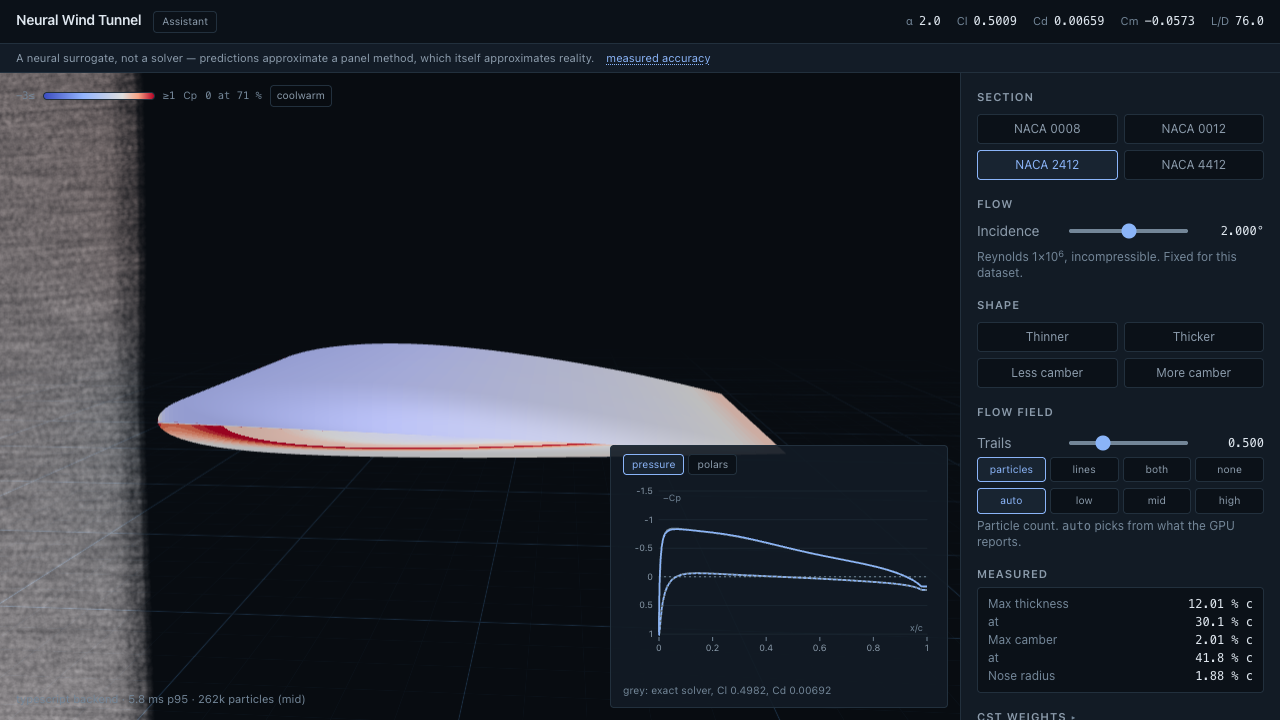
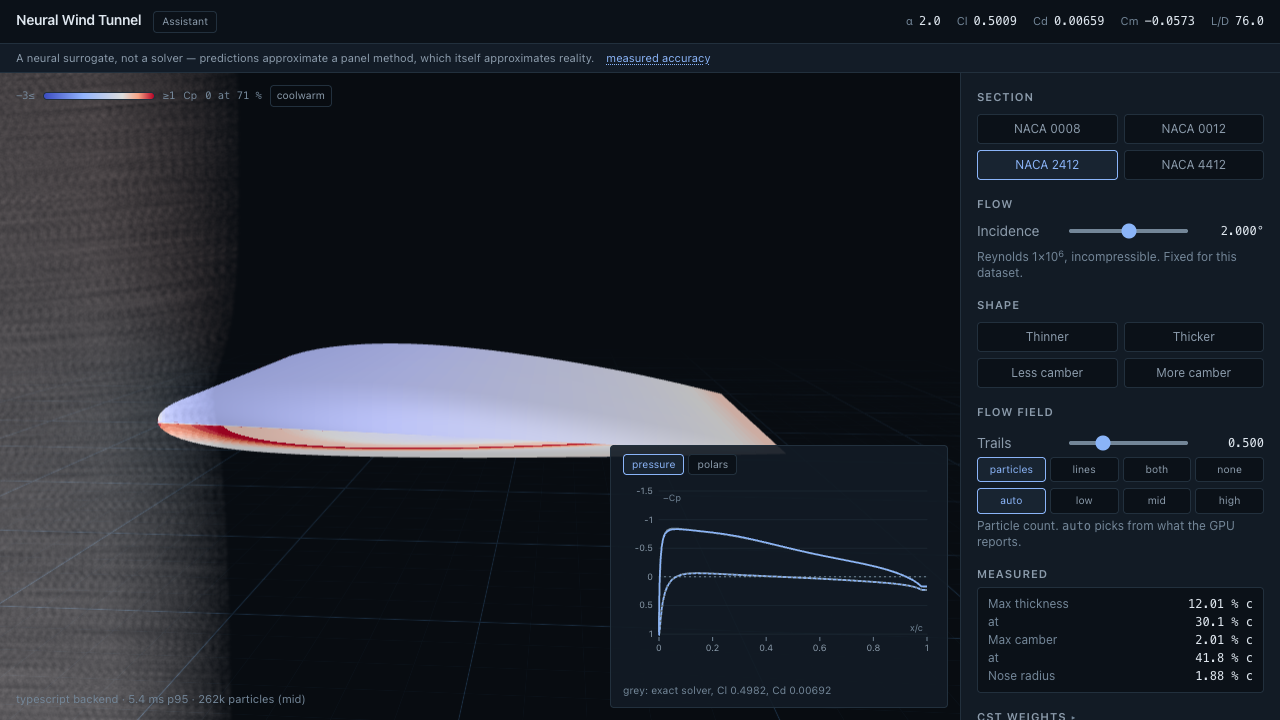
fix(gpgpu): deposit trails per second so the field is visible at any frame rate

Changed region(s): [[0.0, 0.0917, 0.1875, 1.0]]

diff --git a/tests/e2e/scene.spec.ts b/tests/e2e/scene.spec.ts
@@ -130,3 +130,70 @@ test.describe('polars', () => {
     await expect(page.getByTestId('polar-chart')).toHaveCount(0)
   })
 })
+
+/**
+ * The flow has to be visible, and visible everywhere the field is.
+ *
+ * This guards a bug that reached production: the trail buffer decayed per second but was deposited
+ * into per frame, so its steady-state brightness scaled with the frame rate. On a 120 Hz display
+ * the dense band of freshly seeded particles at the inlet saturated to white in under a second and
+ * the rest of the field — two orders of magnitude sparser — never crossed the first visible step.
+ * The tunnel looked empty with a bright stripe down its left edge.
+ *
+ * `trails.test.ts` holds the arithmetic, and that is the test that actually catches this bug: it
+ * is parametric in frame time and needs no GPU. This one cannot, and the reason is worth writing
+ * down — CI renders through SwiftShader at around eight frames a second, which is precisely where
+ * the broken arithmetic happens to look correct. Restoring the bug leaves this test green.
+ *
+ * It earns its place for a different failure: the flow must reach the part of the viewport
+ * downstream of the section, and must not be dwarfed by whatever is at the inlet. That covers a
+ * dead field, a broken mask, particles that never advect, and an inlet that saturates.
+ */
+test.describe('the flow field is visible across the domain', () => {
+  test('downstream of the section, not only at the inlet', async ({ page }) => {
+    await installCanvasProbe(page)
+    await page.goto('/#v=1&p=naca2412&a=2&view=particles&tier=mid')
+    await waitForRenderedSection(page)
+
+    // Long enough for a particle to cross the domain: three chords at 0.6 chords per second.
+    await page.waitForFunction(() => (window.__frames ?? 0) > 120, undefined, { timeout: 60_000 })
+    await page.waitForTimeout(6000)
+
+    const bands = await page.evaluate(() => {
+      const canvas = document.querySelector('canvas')
+      if (!canvas) return null
+      const gl = canvas.getContext('webgl2')
+      if (!gl) return null
+      const { width, height } = canvas
+      const pixels = new Uint8Array(width * height * 4)
+      gl.readPixels(0, 0, width, height, gl.RGBA, gl.UNSIGNED_BYTE, pixels)
+
+      // The upper third only: above the section, where nothing but flow is drawn.
+      const mean = (from: number, to: number) => {
+        let sum = 0
+        let count = 0
+        for (let y = Math.floor(height * 0.72); y < height; y += 2) {
+          for (let x = Math.floor(width * from); x < Math.floor(width * to); x += 2) {
+            const i = (y * width + x) * 4
+            sum += ((pixels[i] ?? 0) + (pixels[i + 1] ?? 0) + (pixels[i + 2] ?? 0)) / 3
+            count += 1
+          }
+        }
+        return count === 0 ? 0 : sum / count
+      }
+
+      return { inlet: mean(0, 0.12), middle: mean(0.4, 0.7), outlet: mean(0.78, 0.98) }
+    })
+
+    expect(bands, 'the canvas could not be sampled').not.toBeNull()
+    if (!bands) return
+    const { inlet, middle, outlet } = bands
+
+    // Each band carries flow. The floor is low because this runs on a software renderer.
+    expect(middle, `mid-domain brightness ${middle.toFixed(1)}`).toBeGreaterThan(6)
+    expect(outlet, `downstream brightness ${outlet.toFixed(1)}`).toBeGreaterThan(6)
+
+    // And the inlet does not drown the rest. In the broken build this ratio was unbounded.
+    expect(inlet / Math.max(middle, 1), 'inlet is far brighter than mid-domain').toBeLessThan(3)
+  })
+})

diff --git a/src/gpgpu/particles.ts b/src/gpgpu/particles.ts
@@ -55,7 +55,34 @@ const DEFAULT_MAX_AGE = 6
  * resolved, not how bright it is.
  */
 const REFERENCE_PARTICLE_COUNT = 262_144
-const REFERENCE_OPACITY = 0.012
+const REFERENCE_OPACITY = 0.0035
+
+/**
+ * The frame time the reference opacity was chosen at.
+ *
+ * The trail buffer decays per second and is deposited into per frame, so without this the two
+ * disagree: the steady-state brightness of a pixel is roughly `deposit / (decay * dt)`, which
+ * makes the picture four times brighter at 120 fps than at 30. The symptom was not subtle --
+ * on a 120 Hz display the dense band of freshly seeded particles at the inlet saturated to solid
+ * white within a second while the rest of the field, two orders of magnitude sparser, stayed below
+ * the first visible step and the tunnel looked empty. It survived review because the machine that
+ * checked it was a software renderer running at eight frames a second, where the same arithmetic
+ * happens to land in a reasonable place.
+ *
+ * Scaling what each particle deposits by the same `dt` the fade uses puts both on a per-second
+ * footing, and the picture then looks the same at 30 fps as at 120.
+ */
+export const REFERENCE_FRAME_TIME = 1 / 60
+
+/**
+ * How much of a frame's worth of light a particle deposits.
+ *
+ * Exported so the invariant can be tested without a GPU: `trailSteadyState` in
+ * `trails.test.ts` asserts that deposition and decay stay matched across frame rates.
+ */
+export function depositionScale(deltaSeconds: number): number {
+  return deltaSeconds / REFERENCE_FRAME_TIME
+}
 
 export class ParticleField {
   readonly points: Points
@@ -65,6 +92,7 @@ export class ParticleField {
   private readonly renderMaterial: ShaderMaterial
   private readonly geometry: BufferGeometry
   private readonly textureSize: number
+  private readonly baseOpacity: number
   private elapsed = 0
 
   constructor({
@@ -73,6 +101,8 @@ export class ParticleField {
     speed = DEFAULT_SPEED,
     maxAge = DEFAULT_MAX_AGE,
   }: ParticleOptions) {
+    this.baseOpacity =
+      (REFERENCE_OPACITY * REFERENCE_PARTICLE_COUNT) / (tier.texture * tier.texture)
     this.textureSize = tier.texture
     this.positions = new PingPong({
       width: tier.texture,
@@ -121,7 +151,7 @@ export class ParticleField {
         uSpeedMax: { value: 1.8 },
         // Low, because the trail buffer integrates every frame a particle is drawn: a value
         // that looks right for a single frame saturates to white within half a second.
-        uOpacity: { value: (REFERENCE_OPACITY * REFERENCE_PARTICLE_COUNT) / count },
+        uOpacity: { value: 0 },
         uColormap: { value: 0 },
         uDomainMin: { value: DOMAIN_MIN.clone() },
         uDomainMax: { value: DOMAIN_MAX.clone() },
@@ -189,6 +219,9 @@ export class ParticleField {
 
     this.renderMaterial.uniforms['uPositions']!.value = this.positions.read.texture
     this.renderMaterial.uniforms['uVelocity']!.value = velocity
+    // Deposit per second, not per frame. `clamped` is the same value the trail fade uses, so the
+    // two cannot drift apart.
+    this.renderMaterial.uniforms['uOpacity']!.value = this.baseOpacity * depositionScale(clamped)
   }
 
   setColormap(index: number): void {

diff --git a/src/gpgpu/trails.test.ts b/src/gpgpu/trails.test.ts
@@ -1,0 +1,58 @@
+import { describe, expect, it } from 'vitest'
+
+import { depositionScale } from './particles'
+import { DEFAULT_DECAY } from './trails'
+
+/**
+ * The trail buffer's one invariant: what it looks like must not depend on the frame rate.
+ *
+ * A pixel the flow passes over reaches a steady state where what each frame deposits balances what
+ * the fade removes. The fade is exponential in *seconds*, so if deposition is counted per *frame*
+ * the balance point moves with the frame rate — four times brighter at 120 fps than at 30.
+ *
+ * That shipped. On a 120 Hz display the dense band of freshly seeded particles at the inlet
+ * saturated to white in under a second while the rest of the field stayed below the first visible
+ * step, so the tunnel looked empty with a bright stripe down one edge. It passed review because
+ * the only machine that checked it was a software renderer at eight frames a second, where the
+ * same arithmetic lands somewhere reasonable.
+ *
+ * This test is the arithmetic, with no GPU in sight.
+ */
+
+/** Where a pixel settles: deposit per frame, decayed per second, summed to infinity. */
+function trailSteadyState(deltaSeconds: number): number {
+  const deposit = depositionScale(deltaSeconds)
+  const removed = 1 - Math.exp(-DEFAULT_DECAY * deltaSeconds)
+  return deposit / removed
+}
+
+describe('trail brightness', () => {
+  // 30 fps is the floor the particle step clamps to; 240 covers a fast display.
+  const frameTimes = [1 / 30, 1 / 60, 1 / 90, 1 / 120, 1 / 165, 1 / 240]
+
+  it('settles at the same level whatever the frame rate', () => {
+    const reference = trailSteadyState(1 / 60)
+    for (const dt of frameTimes) {
+      const ratio = trailSteadyState(dt) / reference
+      expect(
+        Math.abs(ratio - 1),
+        `at ${String(Math.round(1 / dt))} fps the trails settle ${ratio.toFixed(2)}x as bright`,
+      ).toBeLessThan(0.05)
+    }
+  })
+
+  it('would not have, had deposition stayed per frame', () => {
+    // The old behaviour, kept here so the test states what it is protecting against rather than
+    // only that some number is stable.
+    const perFrame = (dt: number) => 1 / (1 - Math.exp(-DEFAULT_DECAY * dt))
+    expect(perFrame(1 / 120) / perFrame(1 / 30)).toBeGreaterThan(3.5)
+  })
+
+  it('deposits nothing in a frame of no duration', () => {
+    expect(depositionScale(0)).toBe(0)
+  })
+
+  it('deposits one reference frame of light in a reference frame', () => {
+    expect(depositionScale(1 / 60)).toBeCloseTo(1, 12)
+  })
+})

diff --git a/src/gpgpu/trails.ts b/src/gpgpu/trails.ts
@@ -36,6 +36,9 @@ export interface TrailOptions {
   readonly intensity?: number
 }
 
+/** The per-second decay the fade pass applies. Exported for the frame-rate invariant test. */
+export const DEFAULT_DECAY = 2.6
+
 export class TrailBuffer {
   private targets: PingPong
   private readonly fade: FullscreenPass
@@ -44,7 +47,7 @@ export class TrailBuffer {
   private width: number
   private height: number
 
-  constructor({ width, height, precision, decay = 2.6, intensity = 0.5 }: TrailOptions) {
+  constructor({ width, height, precision, decay = DEFAULT_DECAY, intensity = 0.5 }: TrailOptions) {
     this.width = width
     this.height = height
     this.targets = new PingPong({ width, height, precision, linear: true })

diff --git a/docs/PROGRESS.md b/docs/PROGRESS.md
@@ -833,3 +833,36 @@ in the first draft was wrong and got corrected before it shipped: the app does n
 your GPU lacks float render targets, it just falls back. The README now says that instead.
 
 **Commit.** see `git log`
+
+## Post-deploy — the flow field was invisible on a 120 Hz display
+
+**Greg sent two screenshots of the live site**: an empty black tunnel with a bright blue stripe
+down the left edge. I had seen exactly that picture twice while capturing media and talked myself
+out of it both times — first as a headless-Chromium artefact, then as a trail-exposure setting.
+Neither was true. It was a bug, and it was on production.
+
+**What it was not.** Reading the particle position texture off the GPU showed the simulation was
+perfect: x spanning the full domain from -1 to 2, ages spread across the whole six-second
+lifetime, a density build-up downstream exactly where a wake belongs. The velocity field was
+healthy (u from 0.43 to 1.34) and the body mask covered 1.8 % of the domain, which is right for a
+12 % section. Everything upstream of rendering worked.
+
+**What it was.** The trail buffer fades per second, `exp(-decay * dt)`, and was deposited into per
+frame at a constant opacity. A pixel settles where deposition balances decay, so its brightness is
+proportional to `1 / dt` — the frame rate. At 120 Hz the inlet band, where every respawn puts
+particles and where density is highest, saturated to white in under a second; the rest of the
+field sat two orders of magnitude lower and never reached the first visible step. Deposition now
+carries the same `dt` the fade uses, and `REFERENCE_OPACITY` dropped from 0.012 to 0.0035 because
+the saturated band had been hiding how over-exposed the whole picture was.
+
+**Why it survived every check.** CI renders through SwiftShader at about eight frames a second,
+which is almost exactly where the broken arithmetic lands on a sensible answer. The end-to-end
+suite, the performance suite and the screenshot captures all ran there. I confirmed this rather
+than assumed it: restoring the bug leaves the new end-to-end test green. The guard that works is
+`src/gpgpu/trails.test.ts`, which is parametric in frame time and needs no GPU at all — it fails
+the moment deposition stops being time-scaled.
+
+**The lesson worth keeping.** Twice I saw the symptom and reasoned it away instead of measuring.
+The measurement that settled it took one diagnostic handle and two minutes.
+
+**Commit.** see `git log`

diff --git a/CHANGELOG.md b/CHANGELOG.md
@@ -6,6 +6,20 @@ and this project adheres to [Semantic Versioning](https://semver.org/spec/v2.0.0
 
 ## [Unreleased]
 
+### Fixed
+
+- **The flow field was invisible on a fast display.** The trail buffer decayed per second but was
+  deposited into per frame, so its steady-state brightness scaled with the frame rate. At 120 Hz
+  the dense band of freshly seeded particles at the inlet saturated to white within a second while
+  the rest of the field, two orders of magnitude sparser, never crossed the first visible step:
+  an empty tunnel with a bright stripe down one edge. Deposition is now scaled by the same frame
+  time the fade uses, and the reference opacity was re-tuned for the corrected exposure. The
+  simulation was never at fault — particles advected across the whole domain the entire time.
+- `src/gpgpu/trails.test.ts` asserts the steady state is frame-rate independent, and
+  `tests/e2e/scene.spec.ts` asserts the flow reaches the domain downstream of the section. Only
+  the first catches this bug; CI's software renderer runs at the frame rate where the broken
+  arithmetic looks right, which is why it shipped.
+
 ### Added
 
 - The app is deployed to GitHub Pages at <https://jaworskig00.github.io/neural-wind-tunnel/>,
